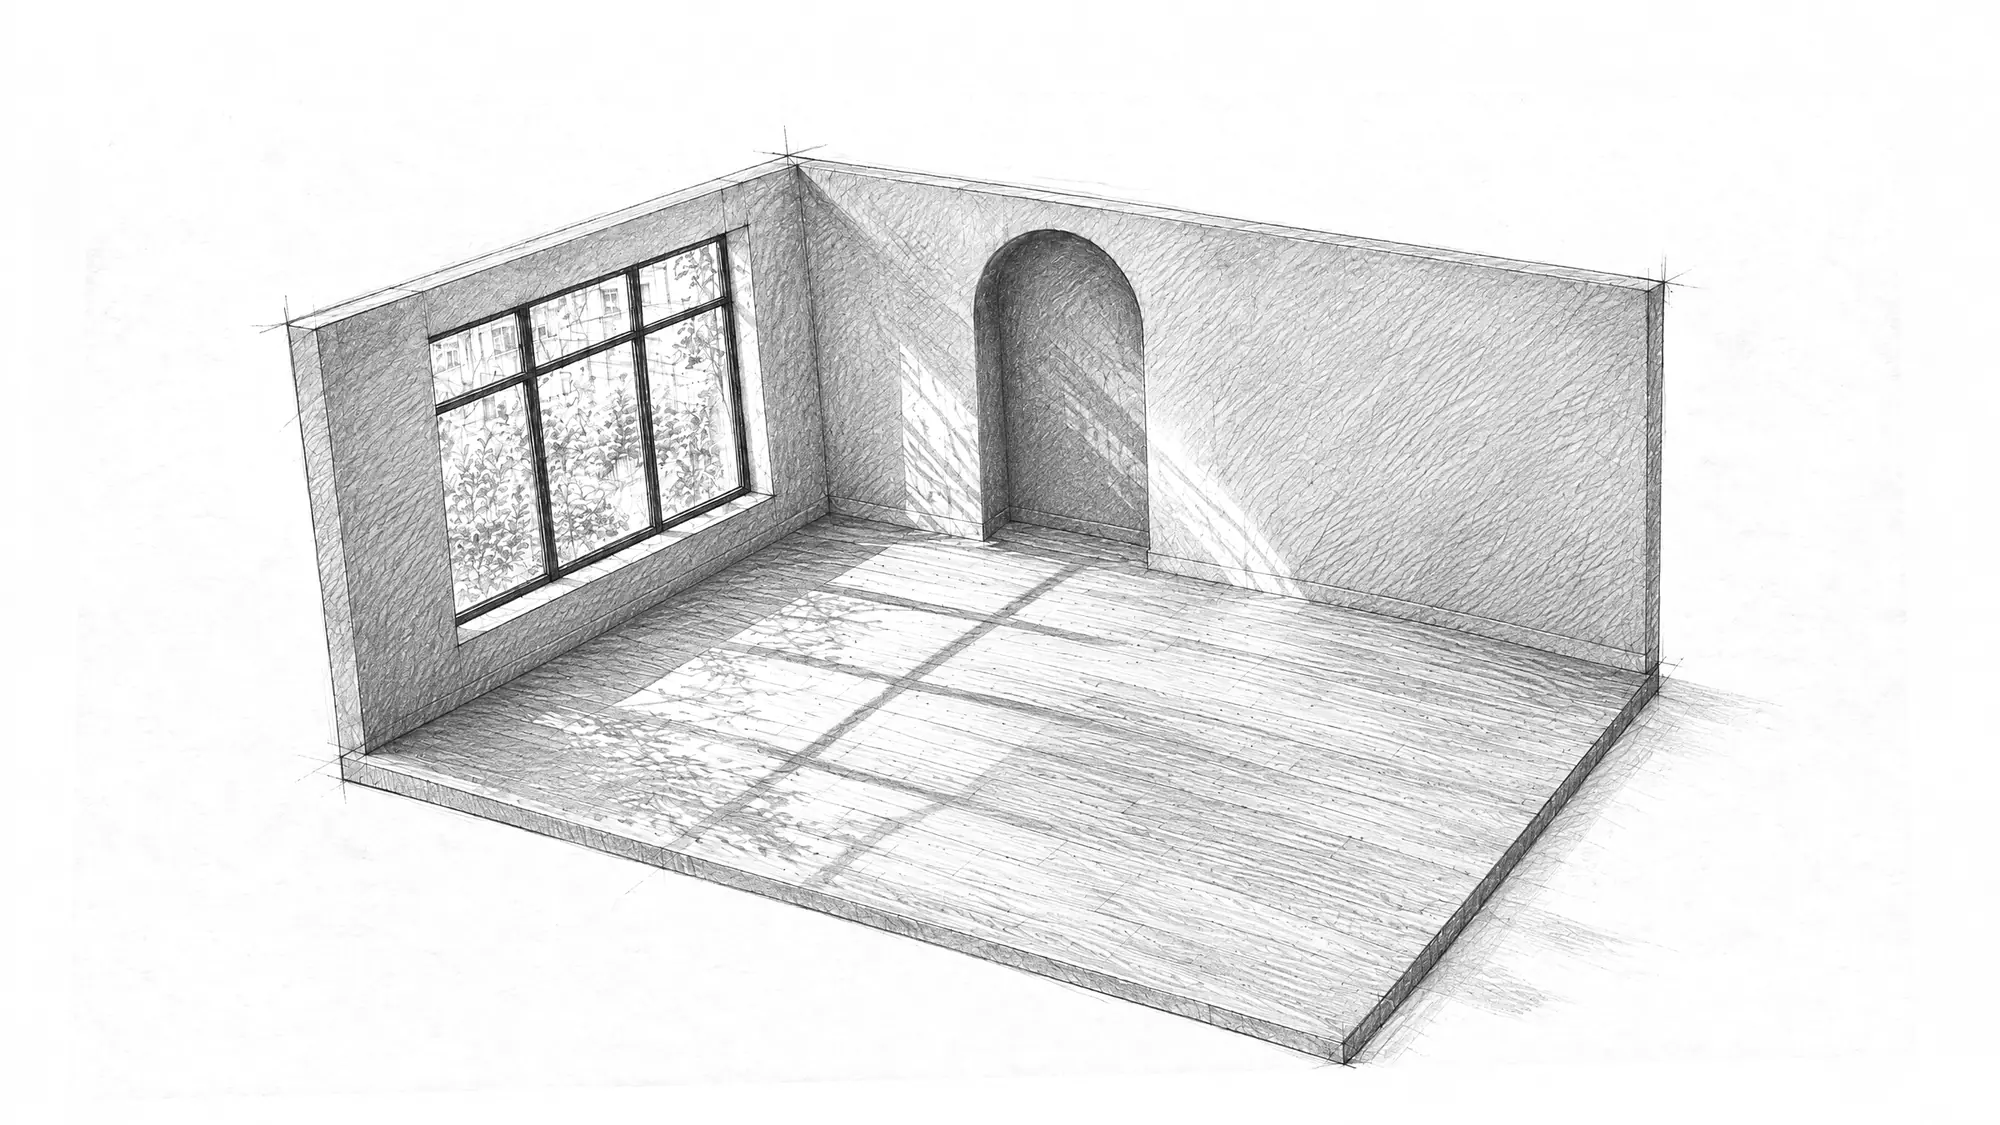
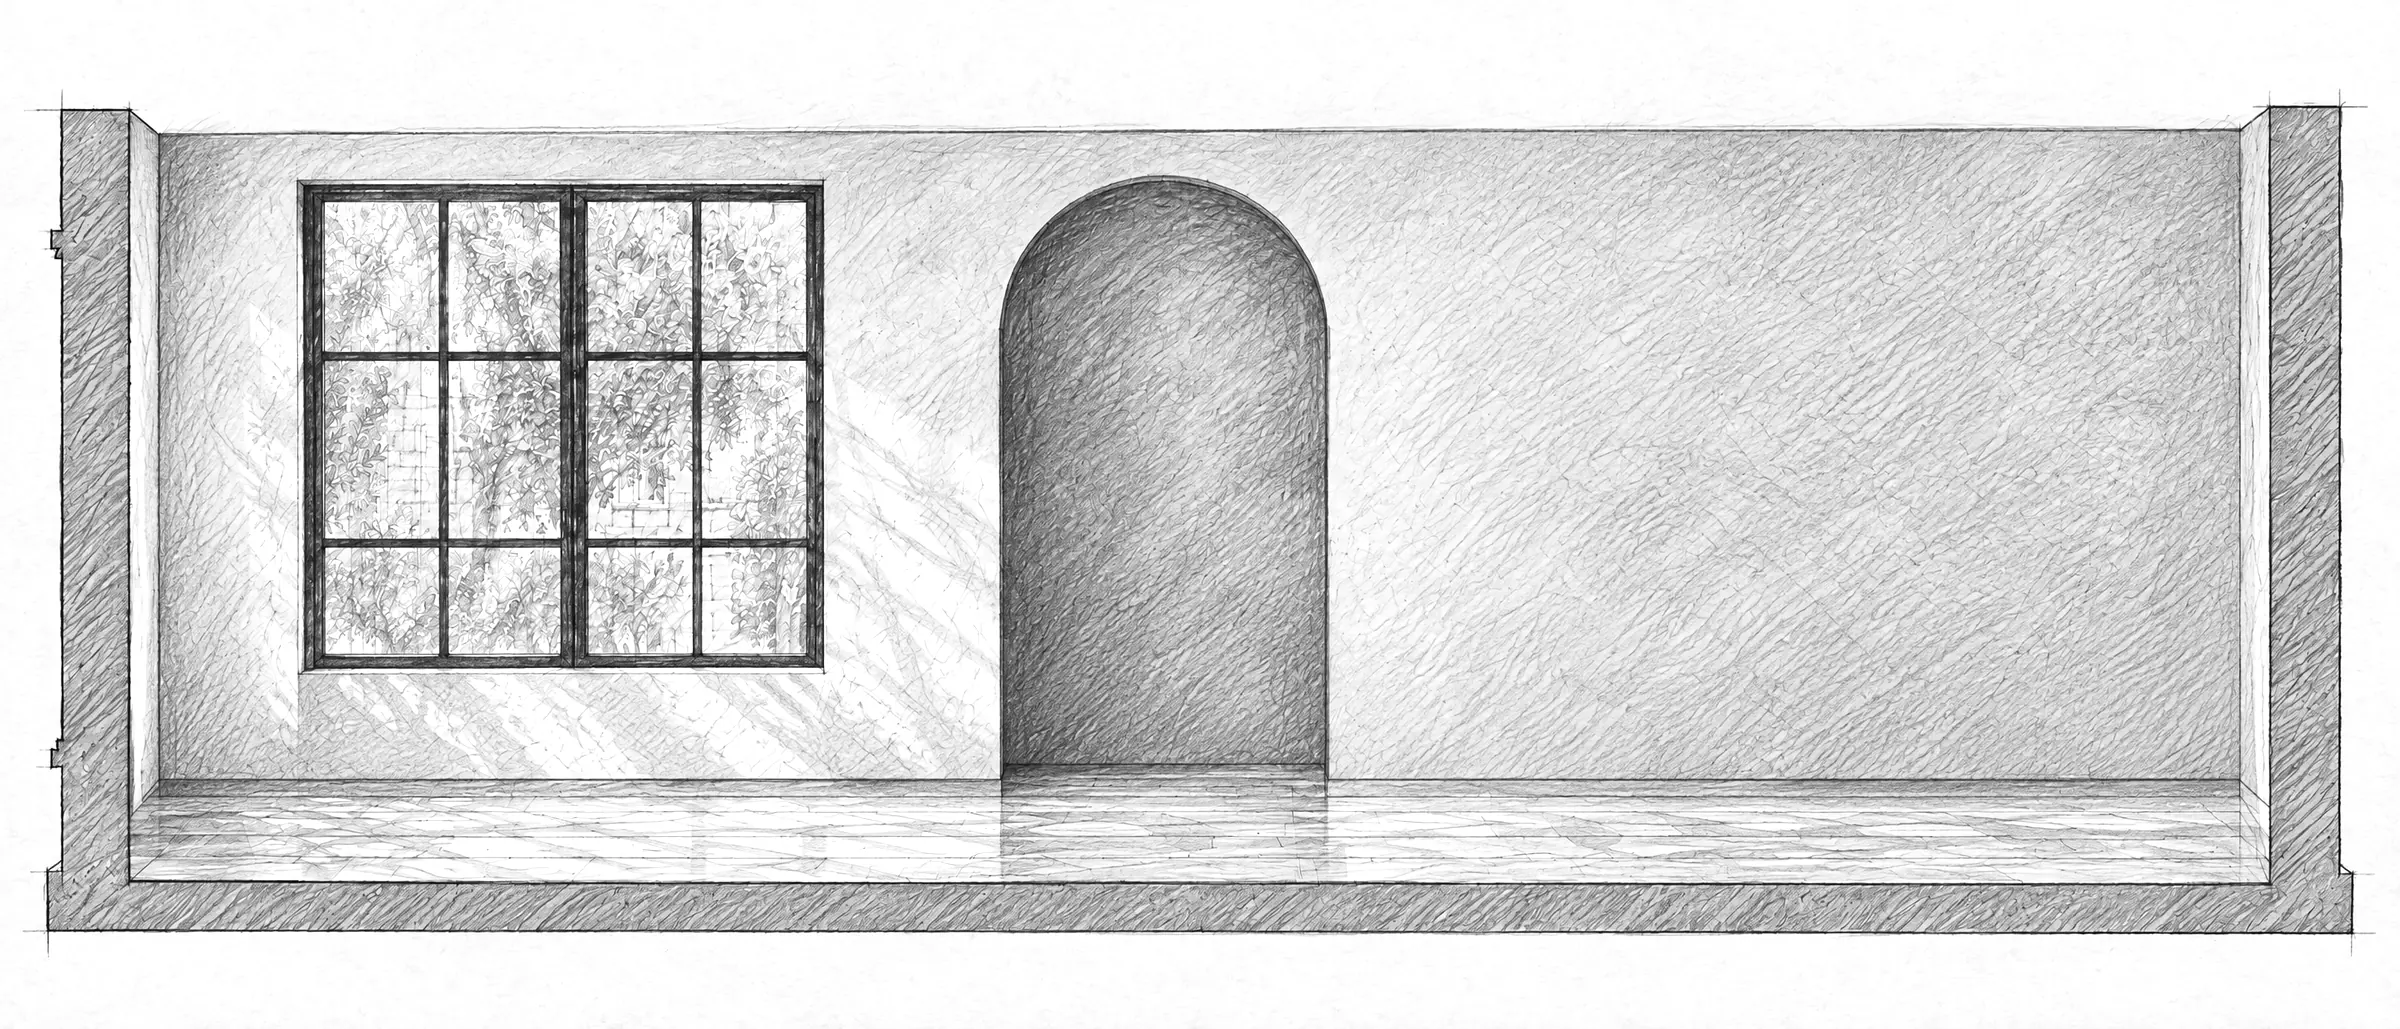
elStudio: el hero pasa a un alzado frontal 21:9, más grande
- Foto, boceto y local vacío nuevos en alzado (Higgsfield; calzan entre sí sin deformar). El dibujo
  ocupa casi todo el ancho del cuadrante.
- Rectángulos de los muebles medidos sobre el alzado (2100×900) y la mira mide en metros a lo largo
  del muro y de alto desde el piso.
- Fuera el rótulo y la bajada del cuadrante (pisaban el dibujo): arriba quedan la etapa y
  «Alzado · Esc. 1:50 · Lámina N / 04». Fuera el modo ?foto-ref.

Claude-Session: https://claude.ai/code/session_015dLwYhySxogqvvKtSkR7oc

diff --git a/src/studio/elstudio/Hero.jsx b/src/studio/elstudio/Hero.jsx
@@ -5,20 +5,20 @@ import { scrollToSection } from '../../hooks/useLenis'
 import { C, LABEL, NAV_H, OPEN_DELAY, SITE } from './brand'
 import { hidePaint, paint } from './paint'
 import { setPlanProbe } from './planProbe'
-import { createLocalScene, FRAME_ASPECT, ROOM } from './localScene'
+import { createLocalScene, FRAME_ASPECT } from './localScene'
 import photoFull from './assets/foto-local.webp'
 import photoSmall from './assets/foto-local-1200.webp'
 import sketchFull from './assets/boceto-local.webp'
 import sketchSmall from './assets/boceto-local-1200.webp'
 import emptyFull from './assets/boceto-vacio.webp'
 import emptySmall from './assets/boceto-vacio-1200.webp'
-import { DESIGN_PIECES } from './designPieces'
+import { DESIGN_PIECES, ROOM_IN_IMAGE as RI } from './designPieces'
 
 /**
  * El hero: del boceto a la foto del local, sobre una lámina con la grilla a la vista.
  *
  * La disposición (como la de un hero de plano): arriba, tres cuartos de la pantalla para el cuadrante
- * del dibujo, a todo el ancho, con la etapa y el rótulo de la lámina en sus esquinas; abajo, el
+ * del dibujo (un alzado, 21:9), a todo el ancho, con la etapa y la lámina en sus esquinas; abajo, el
  * bloque de texto: el título grande a la izquierda y, a la derecha, la bajada, el botón a proyectos
  * y una cinta con los servicios. El alto de ese bloque es --band-h (elstudio.css).
  * Al terminar el loader, un local (café / showroom) se dibuja a lápiz y carbonilla. Al scrollear
@@ -39,9 +39,6 @@ import { DESIGN_PIECES } from './designPieces'
  */
 
 const REVEAL_SECONDS = 3.8
-// `?foto-ref`: el local terminado con la cámara de arranque y el cuadro a todo el canvas, para
-// generar la foto del arrastre a partir de él (scripts propios, no se usa en el sitio).
-const PHOTO_REF = import.meta.env.DEV && typeof window !== 'undefined' && new URLSearchParams(window.location.search).has('foto-ref')
 
 const STAGES = [
   { n: '01', title: 'El espacio', text: 'Un local vacío: muros, luz y proporciones.' },
@@ -70,21 +67,16 @@ function sheetLayout(W, H, infoTop) {
 
 const SERVICES = ['Interiorismo', 'Locales comerciales', 'Mobiliario a medida', 'Vivienda', 'Objetos', 'Dirección de obra']
 
-/** El cuadro de la cámara dentro del cuadrante: 16:9 entero; si el cuadrante es angosto, un poco más grande (recorta los costados). */
+/**
+ * El cuadro del alzado dentro del cuadrante: lo más grande posible sin cortar el local (el papel de
+ * arriba y abajo puede quedar afuera). En pantallas angostas se agranda y recorta los costados.
+ */
 function cameraFrame(p) {
   const aspect = p.w / p.h
-  let fw
-  let fh
-  if (aspect > FRAME_ASPECT) {
-    fh = p.h * 0.96
-    fw = fh * FRAME_ASPECT
-  } else {
-    fw = p.w * 0.96
-    fh = fw / FRAME_ASPECT
-  }
-  const over = Math.min(1.85, Math.max(1, (FRAME_ASPECT / aspect) * 0.86))
+  let fw = Math.min(p.w, p.h * 1.06 * FRAME_ASPECT)
+  const over = Math.min(2.2, Math.max(1, (FRAME_ASPECT / aspect) * 0.86))
   fw *= over
-  fh *= over
+  const fh = fw / FRAME_ASPECT
   return { x: p.x + (p.w - fw) / 2, y: p.y + (p.h - fh) / 2, w: fw, h: fh }
 }
 
@@ -164,22 +156,13 @@ export default function Hero({ boarded, calm, bridge, navLogoRef }) {
         })
 
     let shownStage = -1
+    let frame = null
     const apply = (p) => {
-      if (PHOTO_REF) {
-        const W = stageEl.clientWidth
-        const H = stageEl.clientHeight
-        scene.setFrame(0, 0, W, H)
-        canvas.style.clipPath = 'none'
-        scene.setRise(1)
-        scene.setSketch(0)
-        scene.setDecor(1)
-        scene.setReveal(1)
-        return
-      }
       if (!lastKey) {
         lastKey = 'set'
         const P = L.panel
         const f = cameraFrame(P)
+        frame = f
         scene.setFrame(f.x, f.y, f.w, f.h)
         canvas.style.clipPath = `inset(${P.y}px ${stageEl.clientWidth - P.x - P.w}px ${stageEl.clientHeight - P.y - P.h}px ${P.x}px)`
         Object.assign(panel.style, { left: `${P.x}px`, top: `${P.y}px`, width: `${P.w}px`, height: `${P.h}px` })
@@ -216,12 +199,17 @@ export default function Hero({ boarded, calm, bridge, navLogoRef }) {
     }
     gsap.ticker.add(tick)
 
-    // La mira del cursor pregunta acá en qué punto del local está (en metros), solo dentro del cuadrante.
+    // La mira del cursor pregunta acá en qué punto del alzado está, en metros: a lo largo del muro y
+    // de alto desde el piso. Solo dentro del interior del local.
     setPlanProbe((x, y) => {
-      const r = panel.getBoundingClientRect()
-      if (x < r.left || x > r.right || y < r.top || y > r.bottom) return null
+      if (!frame) return null
       const c = canvas.getBoundingClientRect()
-      return scene.probe(x - c.left, y - c.top)
+      const u = (x - c.left - frame.x) / frame.w
+      const v = (y - c.top - frame.y) / frame.h
+      const mx = ((u - RI.x0) / (RI.x1 - RI.x0)) * RI.w
+      const my = ((RI.y1 - v) / (RI.y1 - RI.y0)) * RI.h
+      if (mx < 0 || mx > RI.w || my < 0 || my > RI.h) return null
+      return { x: mx, y: my }
     })
 
     // El arrastre sobre el dibujo (solo con mouse): el otro estado a la izquierda del cursor.
@@ -319,12 +307,6 @@ export default function Hero({ boarded, calm, bridge, navLogoRef }) {
   }, [boarded, calm])
 
   const st = STAGES[stage]
-  const rows = [
-    ['Proyecto', 'Local · café'],
-    ['Superficie', `${ROOM.w * ROOM.d} m²`],
-    ['Estado', st.title],
-    ['Lámina', `${st.n} / 04`],
-  ]
 
   return (
     <section ref={sectionRef} id="inicio" aria-label="Inicio" className="relative h-[480vh] calm:h-svh">
@@ -340,7 +322,7 @@ export default function Hero({ boarded, calm, bridge, navLogoRef }) {
           ref={canvasRef}
           className="absolute inset-0 block h-full w-full"
           role="img"
-          aria-label="Un local vacío dibujado a lápiz que se va diseñando, mueble por mueble, hasta la foto del local terminado"
+          aria-label="Alzado de un local vacío dibujado a lápiz que se va diseñando, mueble por mueble, hasta la foto del local terminado"
           data-cursor-tip={tip === 'sketch' ? 'Clic y arrastre · el boceto' : 'Clic y arrastre · la foto'}
         />
 
@@ -350,30 +332,12 @@ export default function Hero({ boarded, calm, bridge, navLogoRef }) {
           <span data-panel-edge className="es-panel__edge es-panel__edge--r" />
           <span data-panel-edge className="es-panel__edge es-panel__edge--b" />
           <span data-panel-edge className="es-panel__edge es-panel__edge--l" />
-          <span className="es-panel__label es-panel__label--tl" style={LABEL}>
-            <span data-paint data-paint-stage className="es-paint block">
-              {st.n} — {st.title}
-            </span>
-            <span data-paint data-paint-stage className="es-paint es-panel__sub">
-              {st.text}
-            </span>
+          <span data-paint data-paint-stage className="es-paint es-panel__label es-panel__label--tl" style={LABEL}>
+            {st.n} — {st.title}
           </span>
-          <span data-paint className="es-paint es-panel__label es-panel__label--tr" style={LABEL}>
-            Esc. 1:50 · N ↑
+          <span data-paint data-paint-stage className="es-paint es-panel__label es-panel__label--tr hidden sm:block" style={LABEL}>
+            Alzado · Esc. 1:50 · Lámina {st.n} / 04
           </span>
-          {/* El rótulo de la lámina, como el cuadro de datos de un plano. */}
-          <dl className="es-rotulo hidden xl:grid" style={LABEL}>
-            {rows.map(([k, v]) => (
-              <div key={k} className="es-rotulo__row">
-                <dt data-paint className="es-paint">
-                  {k}
-                </dt>
-                <dd data-paint {...(k === 'Estado' || k === 'Lámina' ? { 'data-paint-stage': '' } : {})} className="es-paint">
-                  {v}
-                </dd>
-              </div>
-            ))}
-          </dl>
         </div>
 
         {/* Las líneas de construcción (con el mouse). */}

diff --git a/src/studio/elstudio/designPieces.js b/src/studio/elstudio/designPieces.js
@@ -1,15 +1,20 @@
 /**
  * Las piezas que se diseñan en el hero, en el orden en que se dibujan. Cada una es el rectángulo del
- * boceto (en px de la imagen a 1600 × 900, origen arriba a la izquierda) donde está el mueble: ahí
- * el boceto vacío deja ver el boceto completo. Si se regenera el boceto, hay que volver a medir
- * estos rectángulos.
+ * boceto en alzado (en px de la imagen a IMG.w × IMG.h, origen arriba a la izquierda) donde está el
+ * mueble: ahí el boceto vacío deja ver el boceto completo. Los rectángulos se pueden pisar: lo que ya
+ * dibujó una pieza anterior queda dibujado. Si se regenera el boceto, hay que volver a medirlos.
  */
+export const IMG = { w: 2100, h: 900 }
+
 export const DESIGN_PIECES = [
-  { id: 'bar', rect: [985, 378, 1305, 580] },
-  { id: 'shelves', rect: [1050, 185, 1295, 398] },
-  { id: 'bench', rect: [375, 380, 655, 565] },
-  { id: 'table', rect: [685, 462, 965, 695] },
-  { id: 'console', rect: [780, 325, 895, 450] },
-  { id: 'plinths', rect: [1000, 545, 1130, 780] },
-  { id: 'plant', rect: [280, 360, 425, 620] },
+  { id: 'bar', rect: [1160, 504, 1780, 754] },
+  { id: 'shelves', rect: [1228, 100, 1806, 492] },
+  { id: 'bench', rect: [257, 518, 637, 686] },
+  { id: 'table', rect: [551, 525, 1050, 758] },
+  { id: 'console', rect: [898, 383, 1136, 678] },
+  { id: 'plinths', rect: [1840, 425, 1976, 752] },
+  { id: 'plant', rect: [105, 212, 318, 720] },
 ]
+
+/** El interior en la imagen (fracciones): de muro a muro, del cielorraso al piso. Mide 9 × 3,3 m. */
+export const ROOM_IN_IMAGE = { x0: 0.053, x1: 0.948, y0: 0.111, y1: 0.822, w: 9, h: 3.3 }

diff --git a/src/studio/elstudio/localScene.js b/src/studio/elstudio/localScene.js
@@ -1,5 +1,5 @@
 import * as THREE from 'three'
-import { DESIGN_PIECES } from './designPieces'
+import { DESIGN_PIECES, IMG } from './designPieces'
 
 /**
  * La escena del hero: un local (café / showroom) en maqueta, visto como una casa de muñecas (dos
@@ -29,7 +29,7 @@ import { DESIGN_PIECES } from './designPieces'
 
 export const ROOM = { w: 9, d: 6, h: 3.3, t: 0.2 }
 /** El cuadro: la cámara encuadra este aspecto, entero, dentro del rectángulo que le den. */
-export const FRAME_ASPECT = 16 / 9
+export const FRAME_ASPECT = 21 / 9 // el alzado (boceto, vacío y foto) es 21:9
 
 const INK = new THREE.Color('#161513')
 const PAPER = new THREE.Color('#f6f4ee')
@@ -595,7 +595,7 @@ export function createLocalScene({ canvas, phone = false, photo = null, sketch =
       tSketchImg: { value: null },
       tSketchEmpty: { value: null },
       uHasEmpty: { value: 0 },
-      uRegions: { value: DESIGN_PIECES.map(({ rect: [x0, y0, x1, y1] }) => new THREE.Vector4(x0 / 1600, 1 - y1 / 900, x1 / 1600, 1 - y0 / 900)) },
+      uRegions: { value: DESIGN_PIECES.map(({ rect: [x0, y0, x1, y1] }) => new THREE.Vector4(x0 / IMG.w, 1 - y1 / IMG.h, x1 / IMG.w, 1 - y0 / IMG.h)) },
       uDesign: { value: DESIGN_PIECES.map(() => 0) },
       uSketchImg: { value: 0 },
       uPhotoZoom: { value: 1 },

diff --git a/design/masters/elstudio/README.md b/design/masters/elstudio/README.md
@@ -21,3 +21,11 @@ boceto → foto alineada: (175,213 → 232,262), (604,60 → 628,126), (1390,182
 alineado). Calza con el boceto completo sin deformar: se escaló a 2400×1350, se pasó el papel a
 blanco y a grises: `src/studio/elstudio/assets/boceto-vacio*.webp`. Los rectángulos de cada mueble
 están en `src/studio/elstudio/designPieces.js` (px de 1600×900).
+
+## Alzado (desde 2026-10-23, el hero usa estas)
+
+El hero pasó a un alzado frontal 21:9. `alzado-foto-b.png` (foto, Higgsfield texto → imagen),
+`alzado-boceto-b.png` (boceto, edición de la foto) y `alzado-vacio-a.png` (vacío, edición del boceto)
+calzan entre sí sin deformar. Se escalaron a 2400×1029; la foto con el fondo llevado a #efebe3 y los
+bocetos con el papel a blanco y en grises. Reemplazan a los WebP de `src/studio/elstudio/assets/`
+(mismos nombres). Rectángulos de cada mueble y el interior en metros: `designPieces.js`.
